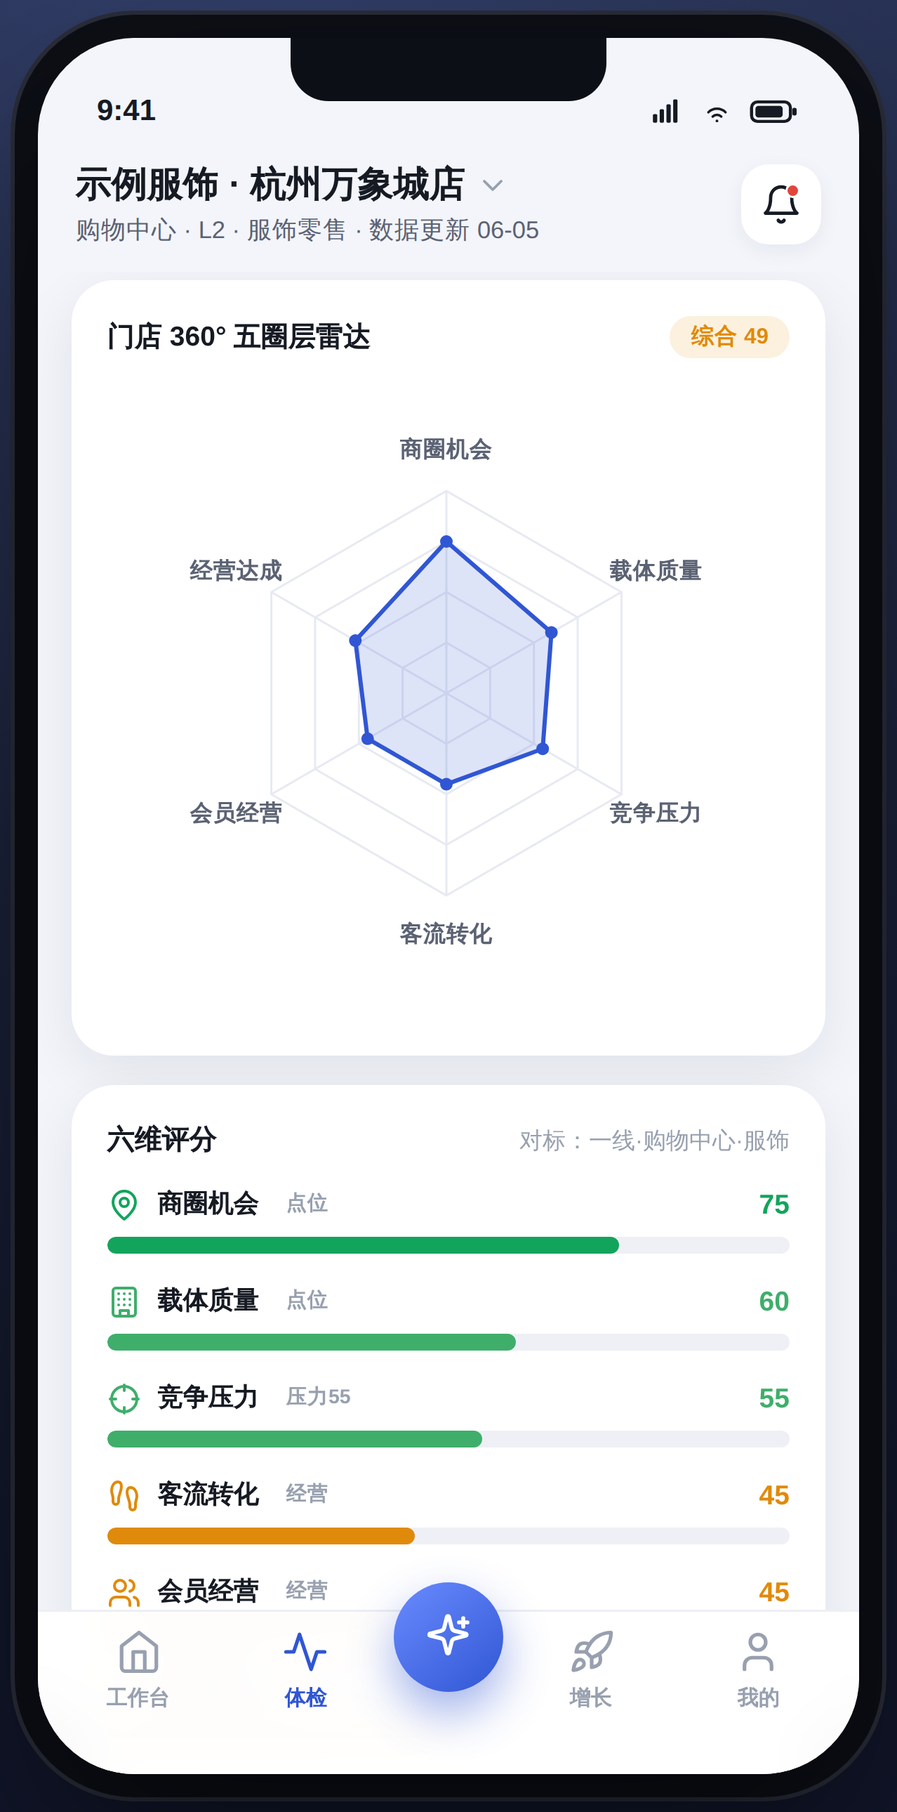
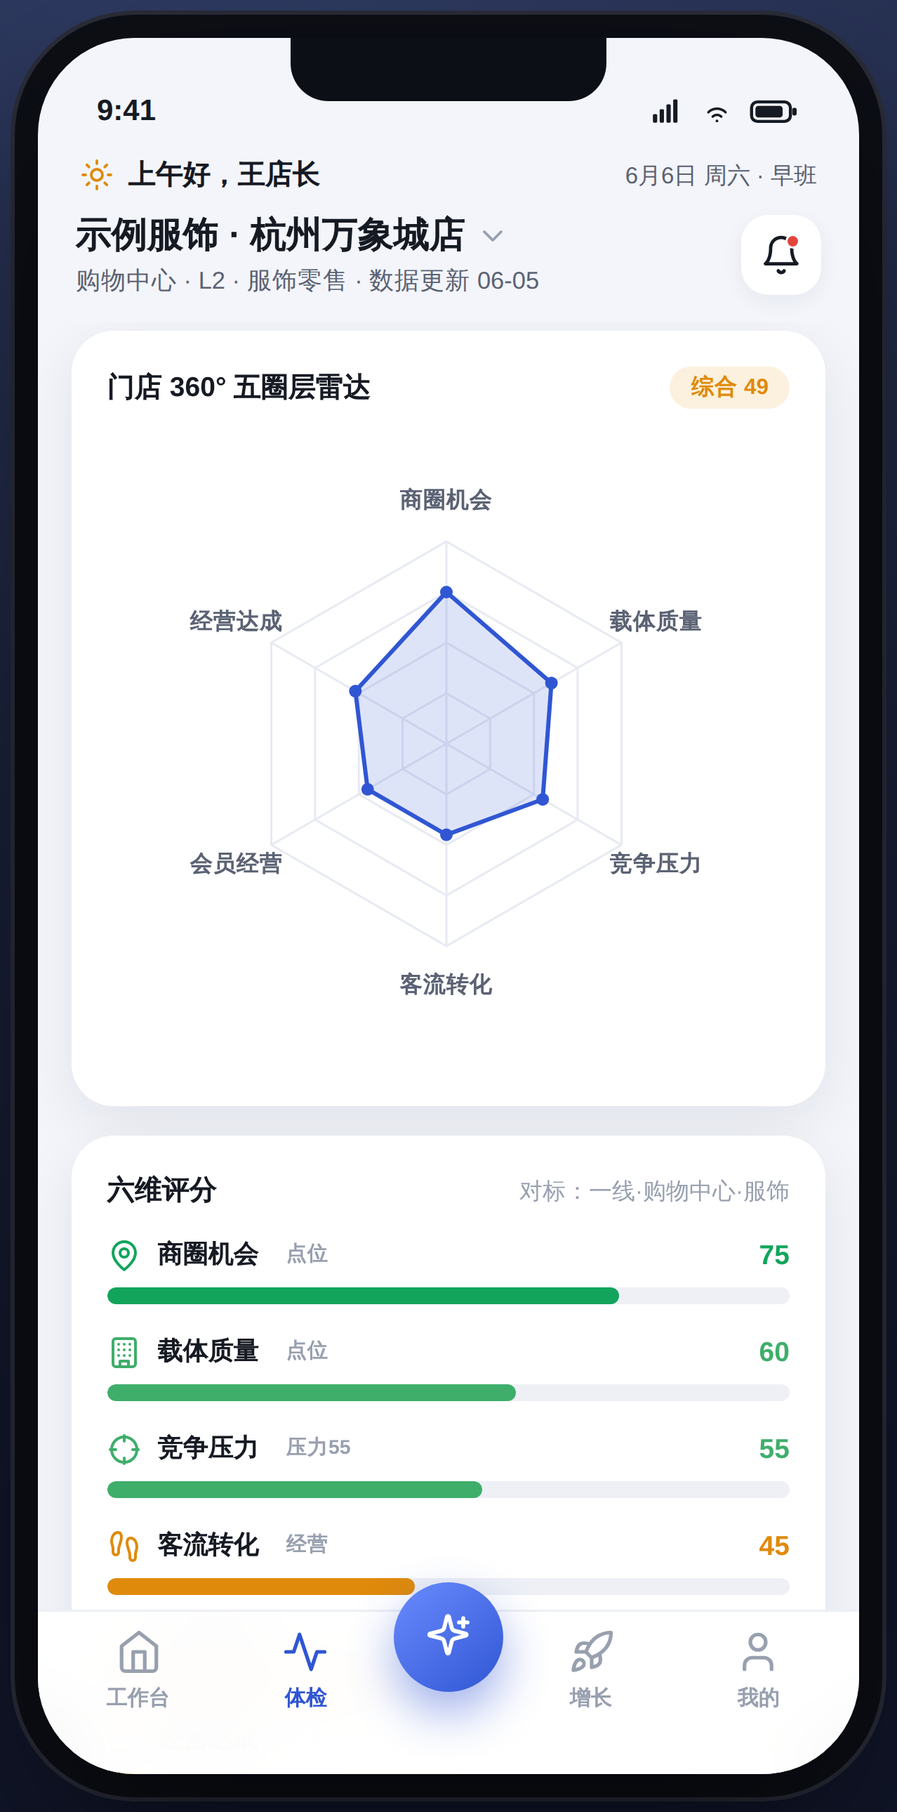
feat: 工作台改造——数据成熟度感知 + 活动/天气监测 + 顶部问候 + 精简AI
- 数据成熟度：外部→+会员→+经营 逐层解锁；早期无经营数据则显示"上传/录入解锁"
  与"帮我对接·增值"付费入口；健康分标注完整度，经营表现未接入显示"待数据"
- 新增「本周外部影响·活动与天气」卡（商场/周边活动预告 + 天气 + 客流影响预测 +
  AI联动建议），纯外部数据、无需上传，置于首屏前部（执行层高频需求）
- AI 诊断精简为 问题→建议→结论（后端返回 problem/suggestion）
- 顶部加日期/班次问候
- 截图：工作台外部/经营两态 + 其余各屏（3x）

https://claude.ai/code/session_019miiq1PUsqVcnnb94GPHDq

diff --git a/prototype/index.html b/prototype/index.html
@@ -71,6 +71,44 @@
   .hero-info .trend{font-size:12px;opacity:.94;margin-top:7px}
   .hero-info .comp{font-size:11px;opacity:.92;margin-top:9px;background:rgba(255,255,255,.14);padding:7px 11px;border-radius:11px;display:inline-block}
 
+  /* 顶部问候 */
+  .greet{display:flex;align-items:center;gap:7px;padding:6px 20px 0}
+  .greet .g-ic{color:var(--mid);display:inline-flex}
+  .greet .g-hi{font-size:13px;font-weight:800}
+  .greet .g-date{font-size:11px;color:var(--sub);margin-left:auto}
+  /* 数据接入阶段切换 */
+  .stage{display:flex;align-items:center;gap:10px;margin:2px 2px 12px}
+  .stage-l{font-size:11px;color:var(--muted);font-weight:800;white-space:nowrap}
+  .stage-seg{display:flex;background:#E6EAF2;border-radius:11px;padding:3px;flex:1}
+  .stage-seg .so{flex:1;text-align:center;font-size:11.5px;font-weight:700;padding:7px;border-radius:8px;color:var(--sub)}
+  .stage-seg .so.on{background:#fff;color:var(--primary);box-shadow:var(--shadow-sm)}
+  .comp2{font-size:11px;opacity:.92;margin-top:6px;background:rgba(255,255,255,.16);padding:4px 9px;border-radius:9px;display:inline-block}
+  .ai-sug{font-size:12.5px;line-height:1.6;margin-top:9px}
+  .ai-sug b{color:var(--primary)}
+  .verdict.mid{color:var(--mid);background:var(--mid-soft)}
+  .verdict.bad{color:var(--bad);background:var(--bad-soft)}
+  /* 解锁/上传 */
+  .lock{display:flex;gap:11px;align-items:center;padding:2px 0}
+  .lock .lk-ic{width:36px;height:36px;border-radius:12px;background:var(--mid-soft);color:var(--mid);display:inline-flex;align-items:center;justify-content:center;flex:none}
+  .lock .c{flex:1;font-size:12.5px;font-weight:700}
+  .lock-d{font-size:11px;color:var(--sub);font-weight:500;margin-top:3px;line-height:1.5}
+  .lock-btns{display:flex;gap:9px;margin-top:13px}
+  .lbtn{flex:1;display:flex;align-items:center;justify-content:center;gap:5px;font-size:11.5px;font-weight:700;padding:10px;border-radius:12px}
+  .lbtn.primary{background:var(--primary);color:#fff}
+  .lbtn.ghost{background:var(--primary-soft);color:var(--primary)}
+
+  /* 活动 / 天气监测 */
+  .evt{display:flex;gap:11px;align-items:center;padding:10px 0;border-bottom:1px solid var(--line)}
+  .evt:last-of-type{border:0}
+  .evt .c{flex:1}
+  .evt .c .h{font-size:12.5px;font-weight:700}
+  .evt .c .d{font-size:11px;color:var(--sub);margin-top:2px;line-height:1.45}
+  .evt-tag{font-size:10px;font-weight:800;padding:3px 9px;border-radius:20px;white-space:nowrap}
+  .evt-tag.up{background:var(--good-soft);color:var(--good)}
+  .evt-tag.down{background:var(--bad-soft);color:var(--bad)}
+  .evt-sug{font-size:11.5px;line-height:1.6;margin-top:11px;background:var(--primary-soft);color:#23306a;padding:10px 11px;border-radius:11px}
+  .evt-sug b{color:var(--primary)}
+
   /* 经营概览 KPI */
   .kpis4{display:flex;gap:6px}
   .kpis4 .kpi4{flex:1;text-align:center;padding:2px 0}
@@ -189,6 +227,12 @@
     </span>
   </div>
 
+  <div class="greet">
+    <span class="g-ic" data-ic="sun" data-sz="16"></span>
+    <span class="g-hi">上午好，王店长</span>
+    <span class="g-date">6月6日 周六 · 早班</span>
+  </div>
+
   <div class="appbar">
     <div class="store">
       <div class="name">示例服饰 · 杭州万象城店 <span class="chev" data-ic="chevron-down" data-sz="16"></span></div>
@@ -201,25 +245,42 @@
 
     <!-- 工作台 -->
     <div class="screen active" id="home">
+      <div class="stage">
+        <span class="stage-l">数据接入</span>
+        <div class="stage-seg">
+          <div class="so on" data-stage="external">外部数据</div>
+          <div class="so" data-stage="member">+会员</div>
+          <div class="so" data-stage="operation">+经营</div>
+        </div>
+      </div>
+
       <div class="hero">
         <div class="hero-top">
           <div class="gauge" id="gauge"></div>
           <div class="hero-info">
-            <div class="grade">综合健康分 <span class="tag" id="h-grade">偏弱</span></div>
-            <div class="trend" id="h-trend">较上月 <b>▼ 3 分</b> ｜ 同类店中位 60</div>
-            <div class="comp" id="h-comp">点位潜力 70　·　经营表现 46</div>
+            <div class="grade">综合健康分 <span class="tag" id="h-grade">中</span></div>
+            <div class="comp2" id="h-comp2">基于外部数据 · 完整度 45%</div>
+            <div class="comp" id="h-comp">点位潜力 68　·　经营表现 —</div>
           </div>
         </div>
       </div>
 
       <div class="card">
-        <div class="card-t">经营概览 <span class="more">本月 · 环比</span></div>
-        <div class="kpis4" id="kpis4">
-          <div class="kpi4"><div class="k-v">86.5<span class="k-u">万</span></div><div class="k-l">销售额</div><div class="k-d down">▼4%</div></div>
-          <div class="kpi4"><div class="k-v">1.24<span class="k-u">万</span></div><div class="k-l">客流</div><div class="k-d down">▼8%</div></div>
-          <div class="kpi4"><div class="k-v">18.6<span class="k-u">%</span></div><div class="k-l">进店转化</div><div class="k-d down">▼1%</div></div>
-          <div class="kpi4"><div class="k-v">412<span class="k-u">元</span></div><div class="k-l">客单价</div><div class="k-d up">▲6%</div></div>
+        <div class="card-t">商圈与竞争 <span class="more">外部数据 · 250m 网格</span></div>
+        <div class="kpis4">
+          <div class="kpi4"><div class="k-v">4.2<span class="k-u">万</span></div><div class="k-l">可达客群</div><div class="k-d up">▲2%</div></div>
+          <div class="kpi4"><div class="k-v">7<span class="k-u">家</span></div><div class="k-l">周边竞品</div><div class="k-d down">▲2家</div></div>
+          <div class="kpi4"><div class="k-v">8.6<span class="k-u">万</span></div><div class="k-l">商场日客流</div><div class="k-d down">▼5%</div></div>
+          <div class="kpi4"><div class="k-v">中高</div><div class="k-l">消费力</div><div class="k-d">匹配</div></div>
         </div>
+      </div>
+
+      <div class="card">
+        <div class="card-t">本周外部影响 · 活动与天气 <span class="more">客流预测</span></div>
+        <div class="evt"><span class="ibox primary s34" data-ic="megaphone" data-sz="18"></span><div class="c"><div class="h">本商场周年庆（周六–周日）</div><div class="d">全场大促，预计到场客流 +25%</div></div><span class="evt-tag up">客流▲25%</span></div>
+        <div class="evt"><span class="ibox bad s34" data-ic="store" data-sz="18"></span><div class="c"><div class="h">隔壁 H&amp;M 满减（进行中）</div><div class="d">同业态促销，或分流你的客流</div></div><span class="evt-tag down">或分流</span></div>
+        <div class="evt"><span class="ibox mid s34" data-ic="cloud-rain" data-sz="18"></span><div class="c"><div class="h">周三–周四 暴雨</div><div class="d">恶劣天气，预计客流 -15%</div></div><span class="evt-tag down">客流▼15%</span></div>
+        <div class="evt-sug"><b>AI 联动建议</b>：借周年庆高峰加推连带与爆品；雨天主推会员到店礼、做好留客与线上承接。</div>
       </div>
 
       <div class="quick">
@@ -232,48 +293,21 @@
       <div class="card">
         <div class="ai">
           <div class="ai-av" data-ic="sparkles" data-sz="20"></div>
-          <div>
-            <div class="ai-bubble" id="h-diag">综合健康分 <b>49（偏弱）</b>。<b>点位是好的</b>——商圈机会 74、客群充足；问题出在<b>经营</b>：进店转化与会员渗透率明显低于同类店，叠加近距竞品偏多。</div>
-            <div class="verdict"><span data-ic="check-circle" data-sz="16"></span><span id="h-verdict-t">值得投入改善，不建议止损</span></div>
+          <div style="flex:1">
+            <div class="ai-bubble" id="h-problem">…</div>
+            <div class="ai-sug"><b>建议</b> <span id="h-sug">…</span></div>
+            <div class="verdict" id="h-verdict"><span data-ic="check-circle" data-sz="16"></span><span id="h-verdict-t">…</span></div>
           </div>
         </div>
       </div>
 
-      <div class="sec-title"><span class="ibox primary" data-ic="target" data-sz="14"></span>待办建议</div>
-      <div class="todo">
-        <span class="ibox primary s34" data-ic="footprints" data-sz="20"></span>
-        <div class="c"><b>优化进店转化</b>：周末路过到店转化仅 18%，低于同场服饰店。建议调整橱窗与入口陈列。</div>
-        <div class="go">去诊断</div>
-      </div>
-      <div class="todo">
-        <span class="ibox primary s34" data-ic="users" data-sz="20"></span>
-        <div class="c"><b>启动会员渗透</b>：商圈内 1.2 万潜客未触达，建议定向触达。</div>
-        <div class="go">去行动</div>
-      </div>
+      <div class="card" id="member-card"></div>
+      <div class="card" id="op-card"></div>
 
-      <div class="sec-title"><span class="ibox bad" data-ic="alert-triangle" data-sz="14"></span>预警</div>
+      <div class="sec-title"><span class="ibox bad" data-ic="alert-triangle" data-sz="14"></span>预警（外部监测，无需上传）</div>
       <div class="alert">
         <span class="ibox bad s34" data-ic="store" data-sz="20"></span>
-        <div class="c"><b>竞争加剧</b>：本月同场新开 2 家女装竞品（距 60m / 120m），竞争压力分升至 82，关注客流分流。</div>
-      </div>
-
-      <div class="card" style="margin-top:14px">
-        <div class="card-t">本周关键变化 <span class="more">近 7 天</span></div>
-        <div class="chg">
-          <span class="ibox bad s34" data-ic="trending-down" data-sz="19"></span>
-          <div class="c"><div class="h">门店客流</div><div class="d">商圈大盘 -5%，本店 -8%，跑输大盘 3 个点</div></div>
-          <div class="v" style="color:var(--bad)">-8%</div>
-        </div>
-        <div class="chg">
-          <span class="ibox good s34" data-ic="credit-card" data-sz="19"></span>
-          <div class="c"><div class="h">客单价</div><div class="d">连带率提升带动，优于上周</div></div>
-          <div class="v" style="color:var(--good)">+6%</div>
-        </div>
-        <div class="chg">
-          <span class="ibox mid s34" data-ic="repeat" data-sz="19"></span>
-          <div class="c"><div class="h">会员复购</div><div class="d">沉睡会员增加，需召回</div></div>
-          <div class="v" style="color:var(--mid)">-2%</div>
-        </div>
+        <div class="c"><b>竞争加剧</b>：本月同场新开 2 家女装竞品（距 60m / 120m），关注客流分流。</div>
       </div>
     </div>
 
@@ -433,6 +467,12 @@ const ICONS={
   'alert-triangle':'<path d="m21.7 18-8-14a2 2 0 0 0-3.4 0l-8 14A2 2 0 0 0 4 21h16a2 2 0 0 0 1.7-3z"/><line x1="12" x2="12" y1="9" y2="13"/><line x1="12" x2="12.01" y1="17" y2="17"/>',
   'chevron-down':'<path d="m6 9 6 6 6-6"/>',
   'arrow-up':'<path d="M12 19V5"/><path d="m5 12 7-7 7 7"/>',
+  lock:'<rect width="18" height="11" x="3" y="11" rx="2"/><path d="M7 11V7a5 5 0 0 1 10 0v4"/>',
+  upload:'<path d="M21 15v4a2 2 0 0 1-2 2H5a2 2 0 0 1-2-2v-4"/><path d="m17 8-5-5-5 5"/><path d="M12 3v12"/>',
+  link:'<path d="M10 13a5 5 0 0 0 7.54.54l3-3a5 5 0 0 0-7.07-7.07l-1.72 1.71"/><path d="M14 11a5 5 0 0 0-7.54-.54l-3 3a5 5 0 0 0 7.07 7.07l1.71-1.71"/>',
+  sun:'<circle cx="12" cy="12" r="4"/><path d="M12 2v2M12 20v2M4.93 4.93l1.41 1.41M17.66 17.66l1.41 1.41M2 12h2M20 12h2M6.34 17.66l-1.41 1.41M19.07 4.93l-1.41 1.41"/>',
+  megaphone:'<path d="m3 11 18-5v12L3 14v-3z"/><path d="M11.6 16.8a3 3 0 1 1-5.8-1.6"/>',
+  'cloud-rain':'<path d="M20 16.2A4.5 4.5 0 0 0 17.5 8h-1.8A7 7 0 1 0 4 14.9"/><path d="M8 19v2M12 19v3M16 19v2"/>',
 };
 function svg(n,size,sw){size=size||22;sw=sw||1.9;return `<svg viewBox="0 0 24 24" width="${size}" height="${size}" fill="none" stroke="currentColor" stroke-width="${sw}" stroke-linecap="round" stroke-linejoin="round">${ICONS[n]||''}</svg>`}
 function injectIcons(root){(root||document).querySelectorAll('[data-ic]').forEach(e=>{
@@ -452,10 +492,6 @@ document.querySelectorAll('.nav .t').forEach(t=>{
 function gauge(score){const r=45,c=2*Math.PI*r,off=c*(1-score/100);
   const col=score>=70?'#fff':score>=55?'#FFE08A':'#FFC4BE';
   return `<svg width="106" height="106" viewBox="0 0 106 106"><circle cx="53" cy="53" r="${r}" fill="none" stroke="rgba(255,255,255,.22)" stroke-width="9"/><circle cx="53" cy="53" r="${r}" fill="none" stroke="${col}" stroke-width="9" stroke-linecap="round" stroke-dasharray="${c}" stroke-dashoffset="${off}" transform="rotate(-90 53 53)"/></svg><div class="val"><div class="num">${score}</div><div class="lab">/ 100</div></div>`;}
-let curScore=49;
-function renderGauge(){document.getElementById('gauge').innerHTML=gauge(curScore);}
-renderGauge();
-
 // ===== 六维 =====
 let dims=[{k:'商圈机会',ic:'map-pin',s:74,side:'点位'},{k:'载体质量',ic:'building',s:62,side:'点位'},{k:'竞争优势',ic:'crosshair',s:18,side:'点位',note:'压力82'},{k:'客流转化',ic:'footprints',s:42,side:'经营'},{k:'会员经营',ic:'users',s:45,side:'经营'},{k:'经营达成',ic:'wallet',s:50,side:'经营'}];
 const col=s=>s>=70?'var(--good)':s>=55?'#3FAE6B':s>=40?'var(--mid)':'var(--bad)';
@@ -510,26 +546,61 @@ document.querySelectorAll('#m-times .qchip').forEach(c=>c.onclick=()=>{document.
 document.querySelectorAll('[data-jump]').forEach(q=>q.onclick=()=>{document.querySelector('.nav .t[data-s="ai"]').click();aiView('data');});
 document.querySelectorAll('.chip').forEach(c=>c.addEventListener('click',()=>{const inp=document.querySelector('#ai-chat .composer input');inp.value=c.textContent;inp.focus();}));
 
-// ===== 接入后端 API（http(s) 下生效；file:// 打开则用本地示例数据）=====
+// ===== 数据成熟度（演示：外部 → +会员 → +经营 逐层解锁）+ 接入后端 =====
 const ONLINE=location.protocol.indexOf('http')===0, API='/api';
-async function boot(){
-  if(!ONLINE)return;
-  try{
-    const wb=await (await fetch(API+'/stores/current/workbench')).json();
-    const sc=await (await fetch(API+'/stores/current/scorecard')).json();
-    curScore=Math.round(wb.composite); renderGauge();
-    document.getElementById('h-grade').textContent=wb.grade;
-    document.getElementById('h-trend').innerHTML='较上月 <b>'+(wb.trend_delta>0?'▲':'▼')+' '+Math.abs(wb.trend_delta)+' 分</b> ｜ 同类店中位 60';
-    document.getElementById('h-comp').textContent='点位潜力 '+wb.point_potential+'　·　经营表现 '+wb.operation_performance;
-    document.getElementById('h-diag').textContent=wb.diagnosis;
-    document.getElementById('h-verdict-t').textContent=wb.verdict;
-    try{const kp=await (await fetch(API+'/stores/current/kpis')).json();
-      document.getElementById('kpis4').innerHTML=kp.map(x=>`<div class="kpi4"><div class="k-v">${x.val}<span class="k-u">${x.unit}</span></div><div class="k-l">${x.name}</div><div class="k-d ${x.env<0?'down':x.env>0?'up':''}">${x.env>0?'▲':x.env<0?'▼':''}${Math.abs(x.env)}%</div></div>`).join('');}catch(e){}
-    dims=sc.dimensions.map(d=>({k:d.name,ic:d.icon,s:Math.round(d.score),side:d.side==='point'?'点位':'经营',note:d.negative?('压力'+Math.round(d.score)):null}));
-    renderDims(); renderRadar();
-    const dot=document.getElementById('dot'); dot.style.left=sc.point_potential+'%'; dot.style.bottom=sc.operation_performance+'%';
-  }catch(e){console.warn('API 未连接，使用本地示例数据',e);}
+const STAGE={
+  external:{score:62,grade:'中',comp:45,point:68,op:null,
+    ai:{problem:'当前仅接入外部数据：商圈机会好（74），但周边竞争偏强（压力 82）。',sug:'经营与会员数据尚未接入，暂无法判断自身经营优劣；上传后解锁综合诊断。',verdict:'结论待补充数据',vc:'mid'},
+    mdata:null,odata:null},
+  member:{score:58,grade:'偏弱',comp:70,point:68,op:42,
+    ai:{problem:'会员渗透率仅 28%、复购偏低——客群盘子在，但没吃透。',sug:'再上传经营/销售数据，可精准定位经营短板。',verdict:'初步判断：经营偏弱，建议改善',vc:'mid'},
+    mdata:[['会员数','1.2万',''],['复购率','33%','▼2%'],['渗透率','28%',''],['潜客','1.2万','']],odata:null},
+  operation:{score:54,grade:'偏弱',comp:100,point:60.9,op:47,
+    ai:{problem:'点位是好的（潜力 60.9），问题在经营——渗透率 28%、进店转化偏低。',sug:'优先优化进店转化，并对商圈潜客做定向触达。',verdict:'值得投入改善，不建议止损',vc:'good'},
+    mdata:[['会员数','1.2万',''],['复购率','33%','▼2%'],['渗透率','28%',''],['潜客','1.2万','']],
+    odata:[['销售额','86.5万','▼4%'],['客流','1.24万','▼8%'],['进店转化','18.6%','▼1%'],['客单价','412元','▲6%']]},
+};
+let stage='external';
+function lockHTML(title,dataname,tip){
+  return `<div class="card-t">${title} <span class="pill mid">未接入</span></div>`+
+    `<div class="lock"><span class="lk-ic">${svg('lock',18)}</span><div class="c"><b>${dataname}未接入</b><div class="lock-d">${tip}</div></div></div>`+
+    `<div class="lock-btns"><div class="lbtn primary">${svg('upload',15)}上传 / 录入</div><div class="lbtn ghost">${svg('link',15)}帮我对接 · 增值</div></div>`;
 }
+function dataHTML(title,rows){
+  const dn=x=>`<div class="k-d ${x&&x.indexOf('▼')>=0?'down':x&&x.indexOf('▲')>=0?'up':''}">${x||''}</div>`;
+  return `<div class="card-t">${title} <span class="more">本月 · 环比</span></div><div class="kpis4">`+
+    rows.map(r=>`<div class="kpi4"><div class="k-v">${r[1]}</div><div class="k-l">${r[0]}</div>${dn(r[2])}</div>`).join('')+`</div>`;
+}
+function renderStage(){
+  const d=STAGE[stage];
+  document.getElementById('gauge').innerHTML=gauge(d.score);
+  document.getElementById('h-grade').textContent=d.grade;
+  const lt={external:'基于外部数据',member:'外部 + 会员数据',operation:'全维度数据'}[stage];
+  document.getElementById('h-comp2').textContent=lt+' · 完整度 '+d.comp+'%';
+  document.getElementById('h-comp').textContent='点位潜力 '+d.point+'　·　经营表现 '+(d.op==null?'—（待数据）':d.op);
+  document.getElementById('h-problem').textContent=d.ai.problem;
+  document.getElementById('h-sug').textContent=d.ai.sug;
+  document.getElementById('h-verdict-t').textContent=d.ai.verdict;
+  document.getElementById('h-verdict').className='verdict '+(d.ai.vc||'good');
+  document.getElementById('member-card').innerHTML=d.mdata?dataHTML('会员概览',d.mdata):lockHTML('会员概览','会员/CRM 数据','上传会员数据，解锁会员 RFM 与潜客分析');
+  document.getElementById('op-card').innerHTML=d.odata?dataHTML('经营概览',d.odata):lockHTML('经营概览','POS/销售数据','上传经营数据，解锁经营诊断与综合评分');
+}
+document.querySelectorAll('.stage-seg .so').forEach(o=>o.onclick=()=>{stage=o.dataset.stage;document.querySelectorAll('.stage-seg .so').forEach(x=>x.classList.toggle('on',x.dataset.stage===stage));renderStage();});
+renderStage();
+
+async function boot(){ if(!ONLINE)return; try{
+  const wb=await (await fetch(API+'/stores/current/workbench')).json();
+  const sc=await (await fetch(API+'/stores/current/scorecard')).json();
+  const kp=await (await fetch(API+'/stores/current/kpis')).json();
+  const O=STAGE.operation;
+  O.score=Math.round(wb.composite);O.grade=wb.grade;O.comp=sc.completeness;O.point=wb.point_potential;O.op=wb.operation_performance;
+  O.ai={problem:wb.problem,sug:wb.suggestion,verdict:wb.verdict,vc:wb.verdict_color};
+  O.odata=kp.map(x=>[x.name,x.val+(x.unit||''),(x.env>0?'▲':x.env<0?'▼':'')+(x.env?Math.abs(x.env)+'%':'')]);
+  dims=sc.dimensions.map(d=>({k:d.name,ic:d.icon,s:Math.round(d.score),side:d.side==='point'?'点位':'经营',note:d.negative?('压力'+Math.round(d.score)):null}));
+  renderDims(); renderRadar();
+  const dot=document.getElementById('dot'); dot.style.left=sc.point_potential+'%'; dot.style.bottom=sc.operation_performance+'%';
+  if(stage==='operation')renderStage();
+}catch(e){console.warn('API 未连接，使用本地示例数据',e);} }
 boot();
 
 injectIcons();

diff --git a/backend/app/main.py b/backend/app/main.py
@@ -101,20 +101,31 @@ def workbench(sid: str, db: Session = Depends(get_db)):
         verdict = "点位天花板，理性看待预期"; vc = "mid"
     else:
         verdict = "健康门店，保持并复制经验"; vc = "good"
-    diagnosis = (f"综合健康分 {sc['composite']}（{sc['grade']}）。"
-                 f"点位潜力 {sc['point_potential']}、经营表现 {sc['operation_performance']}。")
-    if q["code"] == "ops":
-        diagnosis += f"点位是好的，问题在经营：会员渗透率仅 {pen}%，需提升转化与渗透。"
     # 待办：取经营侧最低的两维
     op_dims = sorted([d for d in sc["dimensions"] if d["side"] == "op"], key=lambda d: d["score"])
+    weak = op_dims[0]["name"] if op_dims else "经营"
+    pen_i = round(pen) if pen is not None else "—"
+    # AI 诊断：精简为「问题 → 建议」(结论由 verdict 承载，不再重复健康分)
+    if q["code"] == "ops":
+        problem = f"点位是好的（潜力 {sc['point_potential']}），问题在经营——会员渗透率仅 {pen_i}%、{weak}偏低。"
+        suggestion = "优先优化进店转化，并对商圈潜客做定向触达提升渗透。"
+    elif q["code"] == "double":
+        problem = f"点位与经营双弱（潜力 {sc['point_potential']} / 表现 {sc['operation_performance']}）。"
+        suggestion = "先评估点位价值，再决定调改方向或止损。"
+    elif q["code"] == "ceiling":
+        problem = f"经营已到位（表现 {sc['operation_performance']}），但点位潜力有限（{sc['point_potential']}）。"
+        suggestion = "控制投入、维持效率，对增量理性预期。"
+    else:
+        problem = f"点位与经营均衡（潜力 {sc['point_potential']} / 表现 {sc['operation_performance']}），整体健康。"
+        suggestion = "保持现状，提炼可复制经验向其他门店推广。"
     todos = [{"name": d["name"], "icon": d["icon"], "score": d["score"]} for d in op_dims[:2]]
     return {
         "store": {"id": s.id, "name": s.name,
                   "meta": f"{s.carrier_type} · {s.biz_type} · {s.city}"},
         "composite": sc["composite"], "grade": sc["grade"], "trend_delta": s.trend_delta,
         "point_potential": sc["point_potential"], "operation_performance": sc["operation_performance"],
-        "quadrant": q, "verdict": verdict, "verdict_color": vc, "diagnosis": diagnosis,
-        "todos": todos,
+        "quadrant": q, "verdict": verdict, "verdict_color": vc,
+        "problem": problem, "suggestion": suggestion, "todos": todos,
     }
 
 
